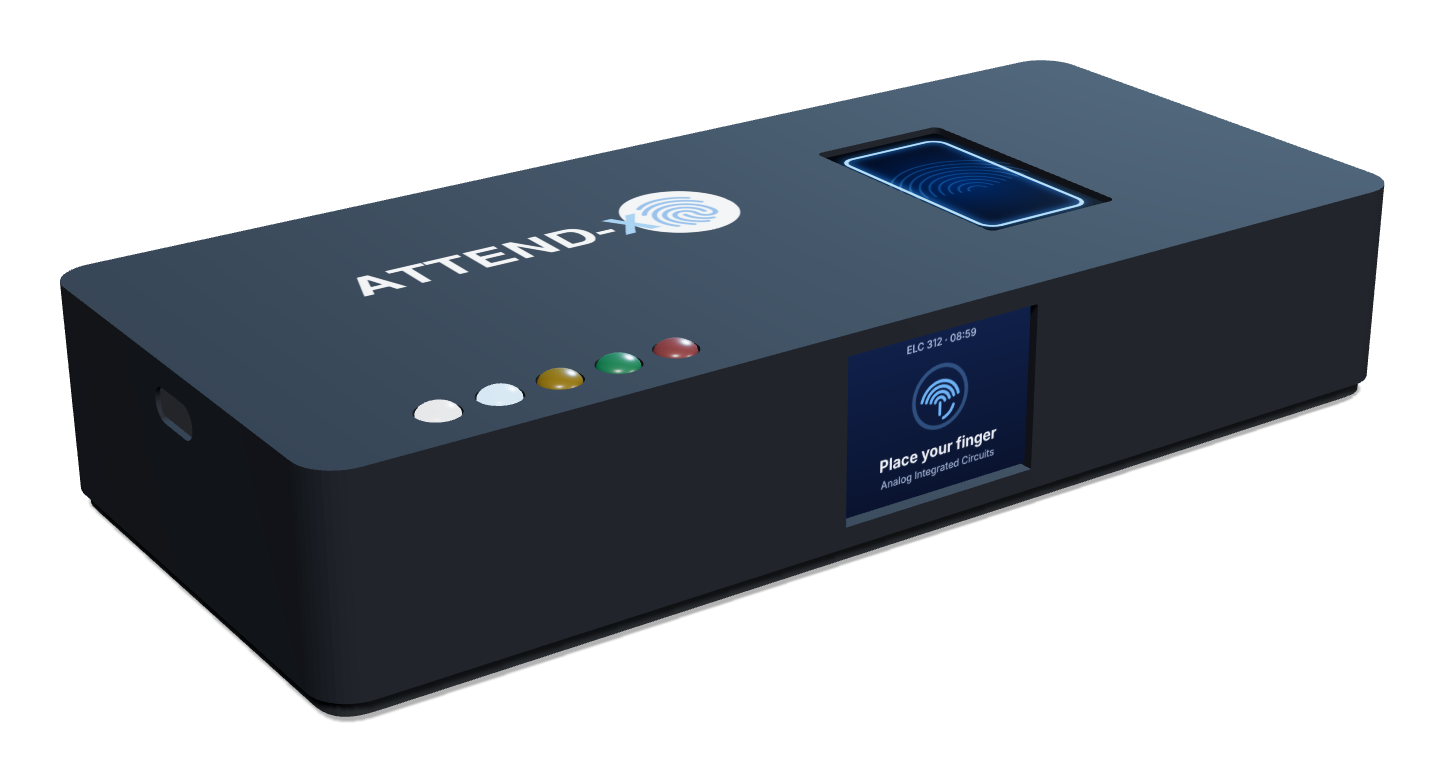
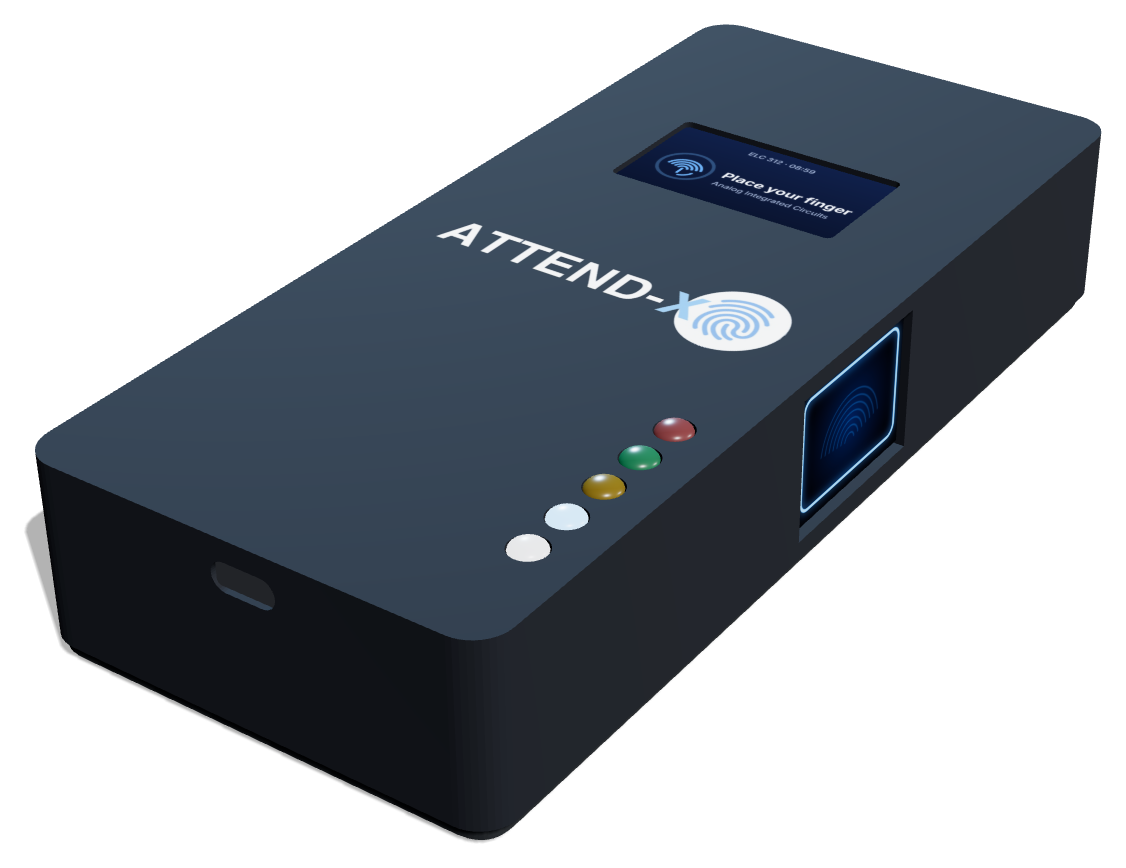
Correct the device layout, refine the page
- Display is in the top window and the fingerprint sensor in the side window; model, stills and copy updated
- Request-a-quote wording, single WhatsApp send button, floating WhatsApp button
- Step visuals, live attendance card, phone layout, anchor offsets under the sticky header

diff --git a/assets/device-3d.js b/assets/device-3d.js
@@ -9,24 +9,28 @@
      opts.ariaKey       T key for the canvas aria-label
      opts.onReady       called after the first frame is on screen
      opts.onView        called with the view name when it changes (to sync the preset buttons)
+     opts.still         { screen } for a single static frame (used by renders/render.html): no animation, no idle motion
 
    Geometry reference (mm, from the team's STL): case 145 x 65.25 x 25 on a 2 mm cover, total height 27.
    Scene axes: X = length, Y = up, Z = toward the front (display side).
-   Top (Y=27): fingerprint window 19 x 34 at X 31.1; LED holes d5 at X -55.5..-27.5, Z 25.6.
-   Front (Z=32.6): display window 26 x 20 at X 3.0, Y 14.65. Back: switch slot 15.5 x 8 at X 33.5, Y 13.8.
-   Left end (X=-72.5): USB-C 9 x 4 at Z 0.5, Y 22. Right end: three 28 x 2 vents. */
+   Top (Y=27): DISPLAY window 19 x 34 at X 31.1; LED holes d5 at X -55.5..-27.5, Z 25.6.
+   Long side (Z=32.6): FINGERPRINT SENSOR window 26 x 20 at X 3.0, Y 14.65. Opposite side: switch slot 15.5 x 8 at X 33.5, Y 13.8.
+   Near end (X=-72.5): USB-C 9 x 4 at Z 0.5, Y 22. Far end: three 28 x 2 vents.
+   The device is used end-on: the user stands at the USB-C end, reads the landscape display (text runs along Z, its top toward +X)
+   and touches the sensor on the right-hand side. That reading direction is taken from the team's Tinkercad layout; flip SCREEN_UP to -1 if it is the other end. */
 (function () {
 "use strict";
 
 const TOP = 27, FRONT = 32.625, BACK = -32.4;
-const SENSOR = { x: 31.1, z: -0.07, w: 19, d: 34 };
+const SCREEN = { x: 31.1, z: -0.07, w: 19, d: 34 };    // display window in the top face
+const SCREEN_UP = 1;                                    // +1: the top of the text points to +X (read from the USB-C end)
 const LEDX = [-55.48, -48.49, -41.5, -34.52, -27.53], LEDZ = 25.6;
-const DISP = { x: 3.04, y: 14.65, w: 26, h: 20 };
+const FP = { x: 3.04, y: 14.65, w: 26, h: 20 };          // fingerprint sensor window in the long side
 const LIFT = 46;                       // how far the case lifts in the Inside view
 const VIEWS = {
-  hero: { pos: [-175, 140, 250], target: [0, 11, 0] },
-  front: { pos: [0, 60, 330], target: [0, 12, 0] },
-  top: { pos: [0, 360, 40], target: [0, 9, 0] },
+  hero: { pos: [-235, 185, 160], target: [0, 11, 0] },
+  front: { pos: [0, 60, 330], target: [0, 12, 0] },     // the sensor side
+  top: { pos: [-40 * SCREEN_UP, 360, 0], target: [0, 9, 0] },
   back: { pos: [185, 130, -250], target: [0, 11, 0] }
 };
 // demo loop (student flow only): ready -> present -> ready -> present -> ready -> not recognized
@@ -55,7 +59,7 @@ function create(stage, opts) {
   opts = opts || {};
   const interactive = !!opts.interactive;
   const tr = opts.t || (k => k);
-  const reduce = matchMedia("(prefers-reduced-motion: reduce)").matches;
+  const reduce = !!opts.still || matchMedia("(prefers-reduced-motion: reduce)").matches;
   if (!meshData) meshData = { case: positions(AX_MESH.case), cover: positions(AX_MESH.cover) };
 
   const LABELS = [], leds = [];
@@ -99,22 +103,24 @@ function create(stage, opts) {
   const liner = new THREE.Mesh(new THREE.BoxGeometry(139, 20, 59), new THREE.MeshBasicMaterial({ color: 0x010102, side: THREE.BackSide }));
   liner.position.set(0, 14, 0); shell.add(liner);
 
-  // fingerprint sensor glass sitting in the top window
-  const glass = canvasTex(256, 448, (x, w, h) => {
+  // fingerprint sensor glass sitting in the side window
+  const glass = canvasTex(416, 320, (x, w, h) => {
     x.fillStyle = "#06090f"; x.fillRect(0, 0, w, h);
     const gl = x.createRadialGradient(w / 2, h / 2, 10, w / 2, h / 2, h * .55); gl.addColorStop(0, "#0d2246"); gl.addColorStop(1, "#050a14");
     x.fillStyle = gl; rr(x, 22, 30, w - 44, h - 60, 26); x.fill();
     x.strokeStyle = "rgba(110,180,249,0.16)"; x.lineWidth = 4; x.lineCap = "round";
-    for (let r = 18; r < 150; r += 16) { x.beginPath(); x.arc(w / 2, h * .6, r, Math.PI * 1.05, Math.PI * 1.95); x.stroke(); }
+    for (let r = 18; r < 120; r += 16) { x.beginPath(); x.arc(w / 2, h * .66, r, Math.PI * 1.05, Math.PI * 1.95); x.stroke(); }
     x.shadowColor = "#6EB4F9"; x.shadowBlur = 26; x.strokeStyle = "rgba(110,180,249,0.95)"; x.lineWidth = 7; rr(x, 22, 30, w - 44, h - 60, 26); x.stroke();
   });
-  const glassMesh = new THREE.Mesh(new THREE.PlaneGeometry(SENSOR.w - 0.6, SENSOR.d - 0.6), new THREE.MeshStandardMaterial({ map: glass.tx, emissive: 0xffffff, emissiveMap: glass.tx, emissiveIntensity: 0.9, roughness: 0.1, metalness: 0.1 }));
-  glassMesh.rotation.x = -Math.PI / 2; glassMesh.position.set(SENSOR.x, TOP - 0.8, SENSOR.z); shell.add(glassMesh);
+  const glassMesh = new THREE.Mesh(new THREE.PlaneGeometry(FP.w - 0.6, FP.h - 0.6), new THREE.MeshStandardMaterial({ map: glass.tx, emissive: 0xffffff, emissiveMap: glass.tx, emissiveIntensity: 0.9, roughness: 0.1, metalness: 0.1 }));
+  glassMesh.position.set(FP.x, FP.y, FRONT - 1.2); shell.add(glassMesh);
+  // things lying on the top face read from the USB-C end: local x -> +Z, local y -> +X, facing up
+  const flatOnTop = new THREE.Quaternion().setFromRotationMatrix(new THREE.Matrix4().makeBasis(new THREE.Vector3(0, 0, SCREEN_UP), new THREE.Vector3(SCREEN_UP, 0, 0), new THREE.Vector3(0, 1, 0)));
 
   // suggested logo on the free area of the top
   const wmTex = new THREE.TextureLoader().load(AX_MESH.wordmark, tx => { tx.encoding = THREE.sRGBEncoding; tx.anisotropy = 8; tx.needsUpdate = true; invalidate(); });
   const wm = new THREE.Mesh(new THREE.PlaneGeometry(50, 50 * 187 / 640), new THREE.MeshBasicMaterial({ map: wmTex, transparent: true, opacity: 0.94, depthWrite: false, toneMapped: false }));
-  wm.rotation.x = -Math.PI / 2; wm.position.set(-22, TOP + 0.03, -9); shell.add(wm);
+  wm.quaternion.copy(flatOnTop); wm.position.set(-3, TOP + 0.03, 0); shell.add(wm);
 
   // LEDs in the five top holes, in the order on the case: white (power), blue (ready), orange (pairing), green (present), red (not recognized)
   [0xe8eefb, 0x3b82f6, 0xf59e0b, 0x22c55e, 0xef4444].forEach((c, i) => {
@@ -122,10 +128,10 @@ function create(stage, opts) {
     const led = new THREE.Mesh(new THREE.SphereGeometry(2.35, 20, 12, 0, Math.PI * 2, 0, Math.PI / 2), m); led.scale.y = .55; led.position.set(LEDX[i], TOP - 0.3, LEDZ); shell.add(led); leds.push(m);
   });
 
-  // screen behind the front window
-  const d = canvasTex(520, 400, () => {}); displayTex = d.tx; displayCtx = d.ctx;
-  const scr = new THREE.Mesh(new THREE.PlaneGeometry(DISP.w - 0.4, DISP.h - 0.4), new THREE.MeshBasicMaterial({ map: displayTex, toneMapped: false }));
-  scr.position.set(DISP.x, DISP.y, FRONT - 1.2); shell.add(scr);
+  // screen in the top window (landscape, 34 x 19 mm)
+  const d = canvasTex(680, 380, () => {}); displayTex = d.tx; displayCtx = d.ctx;
+  const scr = new THREE.Mesh(new THREE.PlaneGeometry(SCREEN.d - 0.4, SCREEN.w - 0.4), new THREE.MeshBasicMaterial({ map: displayTex, toneMapped: false }));
+  scr.quaternion.copy(flatOnTop); scr.position.set(SCREEN.x, TOP - 0.8, SCREEN.z); shell.add(scr);
 
   // USB-C receptacle behind the end hole
   const usb = new THREE.Mesh(new THREE.BoxGeometry(1.5, 3.2, 8.4), new THREE.MeshStandardMaterial({ color: 0x9aa1ab, metalness: .9, roughness: .3 })); usb.position.set(-71.3, 22, 0.47); shell.add(usb);
@@ -141,13 +147,14 @@ function create(stage, opts) {
     const pcbB = new THREE.MeshStandardMaterial({ color: 0x1f4fa8, roughness: 0.5 });
     const chip = new THREE.MeshStandardMaterial({ color: 0x111317, roughness: 0.4 });
     const box = (w, h, dd, m, x, y, z) => { const o = new THREE.Mesh(new THREE.BoxGeometry(w, h, dd), m); o.position.set(x, y, z); o.castShadow = true; inside.add(o); return o; };
-    box(64, 1.6, 54, pcbG, 36, 10.8, -2);                        // main PCB (raised on the cover tabs side)
+    box(56, 1.6, 54, pcbG, 42, 10.8, -2);                        // main PCB (raised on the cover tabs side)
     box(50, 1.6, 26, chip, 40, 12.6, -16);                       // ESP32 devkit
     box(18, 2.6, 22, metal, 58, 14.4, -16);                      // ESP32 module shield
     for (let i = 0; i < 12; i++) { box(1, 4, 1, metal, 18 + i * 4, 11.4, -28.5); box(1, 4, 1, metal, 18 + i * 4, 11.4, -3.5); }
-    box(20, 9, 34, chip, SENSOR.x, 21.5, SENSOR.z);              // fingerprint module under the window
-    box(18, .4, 32, new THREE.MeshStandardMaterial({ color: 0x1b3d73, emissive: 0x2a6fd6, emissiveIntensity: .6 }), SENSOR.x, 26.1, SENSOR.z);
-    box(32, 24, 1.6, new THREE.MeshStandardMaterial({ color: 0x14306b, roughness: .5 }), DISP.x, 14.6, 29.6); // display module
+    box(24, 1.6, 40, pcbB, SCREEN.x, 23.6, SCREEN.z);            // display module under the top window
+    box(19, 1.4, 34, new THREE.MeshStandardMaterial({ color: 0x0b1530, roughness: .15, metalness: .2 }), SCREEN.x, 25.1, SCREEN.z);
+    box(20, 18, 21, chip, FP.x, FP.y, 20.5);                     // fingerprint module behind the side window
+    box(18, 15, .5, new THREE.MeshStandardMaterial({ color: 0x1b3d73, emissive: 0x2a6fd6, emissiveIntensity: .6 }), FP.x, FP.y, 31.2);
     const batt = new THREE.Mesh(new THREE.CylinderGeometry(8.8, 8.8, 58, 40), new THREE.MeshStandardMaterial({ color: 0x1d4f9a, roughness: 0.35, metalness: 0.2 }));
     batt.rotation.z = Math.PI / 2; batt.position.set(-36, 11.2, -21.8); batt.castShadow = true; inside.add(batt);
     [-1, 1].forEach(s => { const cap = new THREE.Mesh(new THREE.CylinderGeometry(8.4, 8.4, 1.4, 40), metal); cap.rotation.z = Math.PI / 2; cap.position.set(-36 + s * 29.4, 11.2, -21.8); inside.add(cap); });
@@ -156,58 +163,66 @@ function create(stage, opts) {
     box(8, 3.2, 9, metal, -68, 21, 0.5);
     box(34, 1.6, 8, chip, -41.5, 23.4, LEDZ);                    // LED board under the holes
     LEDX.forEach(x => box(3, 3, 3, new THREE.MeshStandardMaterial({ color: 0xdfe6f2, roughness: .3 }), x, 25.2, LEDZ));
-    const buzz = new THREE.Mesh(new THREE.CylinderGeometry(6, 6, 7, 32), chip); buzz.position.set(-12, 6, 14); inside.add(buzz);
+    const buzz = new THREE.Mesh(new THREE.CylinderGeometry(6, 6, 7, 32), chip); buzz.position.set(-18, 6, 4); inside.add(buzz);
     const wire = (pts, col) => { const c = new THREE.CatmullRomCurve3(pts.map(p => new THREE.Vector3(...p))); inside.add(new THREE.Mesh(new THREE.TubeGeometry(c, 40, 0.7, 8), new THREE.MeshStandardMaterial({ color: col, roughness: .5 }))); };
     wire([[-6, 11, -21], [2, 14, -18], [16, 13, -14]], 0xd93a3a);
     wire([[-6, 9, -23], [4, 11, -20], [16, 12, -16]], 0x16181d);
     wire([[-48, 22, 4], [-26, 18, 6], [8, 13, 6]], 0xf2c230);
     wire([[-26, 22.5, 22], [-6, 18, 14], [10, 13, 6]], 0x6eb4f9);
-    wire([[22, 13, 6], [12, 15, 18], [6, 15, 28]], 0xa78bfa);
-    wire([[40, 13, 2], [36, 15, 1], [32, 17, 0]], 0x22c55e);
+    wire([[22, 13, 4], [18, 14, 8], [14, 14, 14]], 0xa78bfa);
+    wire([[44, 13, 4], [40, 18, 2], [36, 22.5, 0]], 0x22c55e);
 
-    addLabel("l_sensor", [SENSOR.x, TOP, SENSOR.z], [0, 1, 0], "product", shell);
+    addLabel("l_display", [SCREEN.x, TOP, SCREEN.z], [0, 1, 0], "product", shell);
     addLabel("l_leds", [-41.5, TOP, LEDZ], [0, 1, 0], "product", shell);
-    addLabel("l_display", [DISP.x, DISP.y + 6, FRONT], [0, 0, 1], "product", shell);
+    addLabel("l_sensor", [FP.x, FP.y + 6, FRONT], [0, 0, 1], "product", shell);
     addLabel("l_usb", [-72.5, 22, 0.5], [-1, 0, 0], "product", shell);
     addLabel("l_switch", [30.5, 13.8, -32.6], [0, 0, -1], "product", shell);
     addLabel("l_vents", [72.5, 14.5, -1.5], [1, 0, 0], "product", shell);
     addLabel("l_esp", [64, 16, -26], null, "inside", inside);
-    addLabel("l_fpm", [SENSOR.x - 2, 26, 14], null, "inside", inside);
-    addLabel("l_dispm", [DISP.x - 10, 26, 29.6], null, "inside", inside);
+    addLabel("l_fpm", [FP.x - 6, 24, 22], null, "inside", inside);
+    addLabel("l_dispm", [SCREEN.x, 26, 16], null, "inside", inside);
     addLabel("l_batt", [-50, 20, -21.8], null, "inside", inside);
     addLabel("l_chg", [-60, 24, 9], null, "inside", inside);
     addLabel("l_ledbar", [-30, 26, LEDZ], null, "inside", inside);
-    addLabel("l_buzz", [-12, 10, 14], null, "inside", inside);
+    addLabel("l_buzz", [-18, 10, 4], null, "inside", inside);
   }
 
-  /* Device screen (26 x 20 mm window, 520 x 400 canvas). Student flow; the pairing code is for the teacher at session start and is not shown here. */
+  /* Device screen (34 x 19 mm landscape window, 680 x 380 canvas). The demo loop is the student flow;
+     the pairing code ("code") is for the teacher at session start and is only drawn for the How-it-works render. */
   function drawScreen(state) {
     screenState = state;
-    const x = displayCtx, w = 520, h = 400, cx = w / 2;
+    const x = displayCtx, w = 680, h = 380, cx = w / 2, ix = 132, iy = 214, tx = 246;
     const g = x.createLinearGradient(0, 0, 0, h); g.addColorStop(0, "#10204A"); g.addColorStop(1, "#0A1430");
     x.fillStyle = g; x.fillRect(0, 0, w, h);
-    x.textAlign = "center"; x.textBaseline = "alphabetic";
-    x.fillStyle = "#A9BADB"; x.font = "600 26px Inter, Arial, sans-serif"; x.fillText("ELC 312 · 08:59", cx, 46);
-    if (state === "ok") {
-      x.fillStyle = "#4ADE80"; x.beginPath(); x.arc(cx, 170, 74, 0, Math.PI * 2); x.fill();
-      x.strokeStyle = "#0A1430"; x.lineWidth = 16; x.lineCap = "round"; x.lineJoin = "round";
-      x.beginPath(); x.moveTo(cx - 32, 172); x.lineTo(cx - 8, 196); x.lineTo(cx + 36, 146); x.stroke();
-      x.fillStyle = "#4ADE80"; x.font = "800 46px Inter, Arial, sans-serif"; x.fillText("Present", cx, 314);
-      x.fillStyle = "#F4F7FC"; x.font = "600 30px Inter, Arial, sans-serif"; x.fillText("Mariam Hassan", cx, 358);
-    } else if (state === "fail") {
-      x.fillStyle = "#F87171"; x.beginPath(); x.arc(cx, 170, 74, 0, Math.PI * 2); x.fill();
-      x.strokeStyle = "#0A1430"; x.lineWidth = 16; x.lineCap = "round";
-      x.beginPath(); x.moveTo(cx - 28, 142); x.lineTo(cx + 28, 198); x.moveTo(cx + 28, 142); x.lineTo(cx - 28, 198); x.stroke();
-      x.fillStyle = "#F87171"; x.font = "800 42px Inter, Arial, sans-serif"; x.fillText("Not recognized", cx, 314);
-      x.fillStyle = "#F4F7FC"; x.font = "500 28px Inter, Arial, sans-serif"; x.fillText("Please try again", cx, 356);
+    x.textBaseline = "alphabetic"; x.textAlign = "center";
+    x.fillStyle = "#A9BADB"; x.font = "600 28px Inter, Arial, sans-serif"; x.fillText("ELC 312 · 08:59", cx, 58);
+    if (state === "code") {
+      x.fillStyle = "#A9BADB"; x.font = "700 28px Inter, Arial, sans-serif"; x.fillText("PAIRING CODE", cx, 124);
+      x.fillStyle = "#F5A524"; x.font = "700 132px 'JetBrains Mono', Consolas, monospace"; x.fillText("452259", cx, 250);
+      x.fillStyle = "#A9BADB"; x.font = "500 26px Inter, Arial, sans-serif"; x.fillText("Enter it in the teacher portal", cx, 322);
     } else {
-      x.lineWidth = 10; x.strokeStyle = "rgba(110,180,249,0.35)"; x.beginPath(); x.arc(cx, 170, 74, 0, Math.PI * 2); x.stroke();
-      x.strokeStyle = "#6EB4F9"; x.lineWidth = 8; x.lineCap = "round";
-      for (let r = 14; r <= 54; r += 13) { x.beginPath(); x.arc(cx, 186, r, Math.PI * 1.08, Math.PI * 1.92); x.stroke(); }
-      x.beginPath(); x.moveTo(cx, 186); x.lineTo(cx, 214); x.stroke();
-      x.beginPath(); x.arc(cx, 186, 40, Math.PI * 0.1, Math.PI * 0.42); x.stroke();
-      x.fillStyle = "#F4F7FC"; x.font = "700 40px Inter, Arial, sans-serif"; x.fillText("Place your finger", cx, 314);
-      x.fillStyle = "#A9BADB"; x.font = "500 26px Inter, Arial, sans-serif"; x.fillText("Analog Integrated Circuits", cx, 356);
+      x.textAlign = "left";
+      if (state === "ok") {
+        x.fillStyle = "#4ADE80"; x.beginPath(); x.arc(ix, iy, 78, 0, Math.PI * 2); x.fill();
+        x.strokeStyle = "#0A1430"; x.lineWidth = 17; x.lineCap = "round"; x.lineJoin = "round";
+        x.beginPath(); x.moveTo(ix - 34, iy + 2); x.lineTo(ix - 9, iy + 27); x.lineTo(ix + 38, iy - 26); x.stroke();
+        x.fillStyle = "#4ADE80"; x.font = "800 62px Inter, Arial, sans-serif"; x.fillText("Present", tx, iy + 2);
+        x.fillStyle = "#F4F7FC"; x.font = "600 36px Inter, Arial, sans-serif"; x.fillText("Mariam Hassan", tx, iy + 56);
+      } else if (state === "fail") {
+        x.fillStyle = "#F87171"; x.beginPath(); x.arc(ix, iy, 78, 0, Math.PI * 2); x.fill();
+        x.strokeStyle = "#0A1430"; x.lineWidth = 17; x.lineCap = "round";
+        x.beginPath(); x.moveTo(ix - 30, iy - 30); x.lineTo(ix + 30, iy + 30); x.moveTo(ix + 30, iy - 30); x.lineTo(ix - 30, iy + 30); x.stroke();
+        x.fillStyle = "#F87171"; x.font = "800 50px Inter, Arial, sans-serif"; x.fillText("Not recognized", tx, iy + 2);
+        x.fillStyle = "#F4F7FC"; x.font = "500 32px Inter, Arial, sans-serif"; x.fillText("Please try again", tx, iy + 54);
+      } else {
+        x.lineWidth = 10; x.strokeStyle = "rgba(110,180,249,0.35)"; x.beginPath(); x.arc(ix, iy, 78, 0, Math.PI * 2); x.stroke();
+        x.strokeStyle = "#6EB4F9"; x.lineWidth = 8; x.lineCap = "round";
+        for (let r = 14; r <= 54; r += 13) { x.beginPath(); x.arc(ix, iy + 16, r, Math.PI * 1.08, Math.PI * 1.92); x.stroke(); }
+        x.beginPath(); x.moveTo(ix, iy + 16); x.lineTo(ix, iy + 44); x.stroke();
+        x.beginPath(); x.arc(ix, iy + 16, 40, Math.PI * 0.1, Math.PI * 0.42); x.stroke();
+        x.fillStyle = "#F4F7FC"; x.font = "700 48px Inter, Arial, sans-serif"; x.fillText("Place your finger", tx, iy + 2);
+        x.fillStyle = "#A9BADB"; x.font = "500 29px Inter, Arial, sans-serif"; x.fillText("Analog Integrated Circuits", tx, iy + 52);
+      }
     }
     displayTex.needsUpdate = true;
     setLeds(state);
@@ -216,6 +231,7 @@ function create(stage, opts) {
     leds.forEach(l => l.emissiveIntensity = 0.04);
     leds[0].emissiveIntensity = 1.1;
     if (state === "ready") leds[1].emissiveIntensity = 2.2 + (pulse || 0);
+    if (state === "code") leds[2].emissiveIntensity = 2.4 + (pulse || 0);
     if (state === "ok") leds[3].emissiveIntensity = 3;
     if (state === "fail") leds[4].emissiveIntensity = 3;
   }
@@ -246,13 +262,13 @@ function create(stage, opts) {
   const target = new THREE.Vector3(), sph = new THREE.Spherical();
   let goal = null, baseY = 11, vTheta = 0, vPhi = 0, dragging = false;
   const PHI_MIN = 0.1, PHI_MAX = Math.PI * 0.49;
-  function viewSph(name) { const v = VIEWS[name]; return { s: new THREE.Spherical().setFromVector3(new THREE.Vector3(...v.pos).sub(new THREE.Vector3(...v.target))), y: v.target[1] }; }
+  function viewSph(name) { const v = typeof name === "string" ? VIEWS[name] : name; return { s: new THREE.Spherical().setFromVector3(new THREE.Vector3(...v.pos).sub(new THREE.Vector3(...v.target))), y: v.target[1], x: v.target[0], z: v.target[2] }; }
   function setView(name, instant) {
-    if (!VIEWS[name]) return;
-    const g = viewSph(name); baseY = g.y; vTheta = vPhi = 0;
-    if (instant || reduce) { sph.copy(g.s); target.set(0, baseY + (mode === "inside" ? 16 : 0), 0); goal = null; }
+    if (typeof name === "string" && !VIEWS[name]) return;
+    const g = viewSph(name); baseY = g.y; vTheta = vPhi = 0; target.x = g.x; target.z = g.z;
+    if (instant || reduce) { sph.copy(g.s); target.y = baseY + (mode === "inside" ? 16 : 0); goal = null; }
     else { g.s.theta = sph.theta + Math.atan2(Math.sin(g.s.theta - sph.theta), Math.cos(g.s.theta - sph.theta)); goal = g.s; }
-    if (opts.onView) opts.onView(name);
+    if (opts.onView) opts.onView(typeof name === "string" ? name : null);
     invalidate();
   }
   function placeCamera(sway) {
@@ -285,7 +301,7 @@ function create(stage, opts) {
     renderer.setSize(w, h, false); camera.aspect = w / h;
     // keep ~120 mm (viewer, room for labels) or ~105 mm (hero) either side of the centre in frame at the 3/4 distance
     const fit = 2 * Math.atan(((interactive ? 120 : 105) / 335) / camera.aspect) * 180 / Math.PI;
-    camera.fov = Math.min(46, Math.max(interactive ? 23 : 24, fit));
+    camera.fov = opts.fov || Math.min(46, Math.max(interactive ? 23 : 24, fit));
     // --shift3d on the stage (a fraction of its height) moves the device up, to leave room for a card overlapping the bottom
     const shift = parseFloat(getComputedStyle(stage).getPropertyValue("--shift3d")) || 0;
     if (shift) camera.setViewOffset(w, h, 0, Math.round(shift * h), w, h); else camera.clearViewOffset();
@@ -331,7 +347,7 @@ function create(stage, opts) {
   document.addEventListener("visibilitychange", onVis);
   canvas.addEventListener("webglcontextlost", e => { e.preventDefault(); if (opts.onLost) opts.onLost(); });
 
-  drawScreen("ready");
+  drawScreen((opts.still && opts.still.screen) || "ready");
   setView("hero", true); resize(); refreshText();
   // the screen text is drawn on a canvas, so redraw it once the web fonts are in
   if (document.fonts && document.fonts.ready) document.fonts.ready.then(() => { if (!dead) { drawScreen(screenState); invalidate(); } });

diff --git a/index.html b/index.html
@@ -143,7 +143,7 @@ html[lang="ar"] .hero h1 { line-height: 1.25; }
 .step h3 { font-size: 18px; font-weight: 700; }
 .step p { color: var(--muted); font-size: 15px; }
 .step__shot { display: block; aspect-ratio: 4 / 3; border-radius: var(--r-md); overflow: hidden; border: 1px solid var(--line); background: radial-gradient(120% 90% at 50% 35%, #1D3566 0%, var(--navy-deep) 100%); }
-.step__shot img { width: 100%; height: 100%; object-fit: cover; object-position: 49% 50%; }
+.step__shot img { width: 100%; height: 100%; object-fit: cover; }
 .step__shot--fit img { object-fit: contain; padding: 8px; }
 .step__chart { display: grid; place-content: center; justify-items: center; gap: 12px; }
 .donut { position: relative; width: 56%; min-width: 96px; display: grid; place-items: center; }
@@ -370,7 +370,7 @@ html[lang="ar"] .plan__price b { font-family: var(--f-ar); }
         </div>
       </div>
       <div class="hero__visual">
-        <div class="stage3d hero__stage" id="heroStage"><img class="stage3d__poster" src="assets/device-hero.png" alt="" data-t-alt="hero_alt" width="1445" height="783" fetchpriority="high"></div>
+        <div class="stage3d hero__stage" id="heroStage"><img class="stage3d__poster" src="assets/device-hero.png" alt="" data-t-alt="hero_alt" width="1126" height="868" fetchpriority="high"></div>
         <div class="feed" aria-live="polite">
           <div class="feed__head">
             <div class="feed__course"><i class="feed__dot" aria-hidden="true"></i><span data-t="feed_live"></span> · <b>ELC 312</b></div>
@@ -401,8 +401,8 @@ html[lang="ar"] .plan__price b { font-family: var(--f-ar); }
       <div class="sec-head"><span class="eyebrow" data-t="how_eye"></span><h2 class="display" id="howT" data-t="how_t"></h2><p data-t="how_p"></p></div>
       <ol class="steps">
         <li class="step"><span class="step__n">1</span><h3 data-t="s1_t"></h3><p data-t="s1_p"></p><span class="step__shot"><img src="assets/step-register.png" alt="" data-t-alt="s1_alt" width="800" height="600" loading="lazy"></span></li>
-        <li class="step"><span class="step__n">2</span><h3 data-t="s2_t"></h3><p data-t="s2_p"></p><span class="step__shot"><img src="assets/device-pairing-code.png" alt="" data-t-alt="s2_alt" width="1701" height="465" loading="lazy"></span></li>
-        <li class="step"><span class="step__n">3</span><h3 data-t="s3_t"></h3><p data-t="s3_p"></p><span class="step__shot step__shot--fit"><img src="assets/device-present.png" alt="" data-t-alt="s3_alt" width="1445" height="783" loading="lazy"></span></li>
+        <li class="step"><span class="step__n">2</span><h3 data-t="s2_t"></h3><p data-t="s2_p"></p><span class="step__shot"><img src="assets/device-pairing-code.png" alt="" data-t-alt="s2_alt" width="1200" height="900" loading="lazy"></span></li>
+        <li class="step"><span class="step__n">3</span><h3 data-t="s3_t"></h3><p data-t="s3_p"></p><span class="step__shot step__shot--fit"><img src="assets/device-present.png" alt="" data-t-alt="s3_alt" width="1126" height="868" loading="lazy"></span></li>
         <li class="step"><span class="step__n">4</span><h3 data-t="s4_t"></h3><p data-t="s4_p"></p><span class="step__shot step__chart" role="img" data-t-aria="s4_alt">
           <span class="donut"><svg viewBox="0 0 120 120" aria-hidden="true"><circle cx="60" cy="60" r="42" fill="none" stroke="#F87171" stroke-width="13"/><circle cx="60" cy="60" r="42" fill="none" stroke="#4ADE80" stroke-width="13" stroke-dasharray="232.2 263.9" transform="rotate(-90 60 60)"/></svg><b id="donutPct"></b></span>
           <span class="donut__legend"><span><i style="background:#4ADE80"></i><span data-t="present"></span></span><span><i style="background:#F87171"></i><span data-t="absent"></span></span></span>
@@ -433,7 +433,7 @@ html[lang="ar"] .plan__price b { font-family: var(--f-ar); }
       <div class="sec-head" style="margin-bottom:28px"><span class="eyebrow" data-t="dev_eye"></span><h2 class="display" id="devT" data-t="dev_t"></h2><p data-t="dev_p"></p></div>
       <div class="viewer">
         <div class="stage3d viewer__stage" id="devStage">
-          <img class="stage3d__poster" src="assets/device-hero.png" data-fallback="assets/device-inside.png" alt="" data-t-alt="dev_alt" width="1445" height="783" loading="lazy">
+          <img class="stage3d__poster" src="assets/device-hero.png" data-fallback="assets/device-inside.png" alt="" data-t-alt="dev_alt" width="1126" height="868" loading="lazy">
           <div class="v3-labels" id="devLabels"></div>
           <span class="viewer__hint" data-t="v3_hint"></span>
         </div>
@@ -594,7 +594,7 @@ const T = {
   fact1: { en: "Check-in in about a second", ar: "تسجيل في حوالي ثانية" },
   fact2: { en: "Live reports from anywhere", ar: "تقارير لحظية من أي مكان" },
   fact3: { en: "Encrypted with HTTPS", ar: "بيانات مشفّرة بـ HTTPS" },
-  hero_alt: { en: "The Attend-X device: a black unit with the fingerprint sensor and status lights on top and a display on the front asking for a finger", ar: "جهاز أتند إكس: وحدة سوداء فوقها حساس البصمة ولمبات الحالة، وشاشة من قدام بتطلب البصمة" },
+  hero_alt: { en: "The Attend-X device: a black unit with the display and status lights on top and the fingerprint sensor on its side", ar: "جهاز أتند إكس: وحدة سوداء فوقها الشاشة ولمبات الحالة، وحساس البصمة في جنبها" },
   feed_live: { en: "Live attendance", ar: "الحضور الآن" },
   feed_cap: { en: "What the teacher or supervisor sees: each name appears the moment its owner touches the device.", ar: "ده اللي بيشوفه المدرس أو المشرف: كل اسم بيظهر في نفس لحظة بصمة صاحبه." },
   present: { en: "Present", ar: "حاضر" },
@@ -622,7 +622,7 @@ const T = {
   s1_alt: { en: "The admin platform's fingerprint registration screen", ar: "شاشة تسجيل البصمات في منصة الإدارة" },
   s3_alt: { en: "The Attend-X device with a green light and Present on its display", ar: "جهاز أتند إكس واللمبة الخضرا منورة والشاشة مكتوب عليها حاضر" },
   s4_alt: { en: "Example attendance chart: 88% present, 12% absent", ar: "مثال لرسم الحضور: ٨٨٪ حاضر و١٢٪ غائب" },
-  s2_alt: { en: "Front of the Attend-X device with the pairing code 452259 on its display", ar: "واجهة جهاز أتند إكس وعلى شاشته كود الربط 452259" },
+  s2_alt: { en: "The display on top of the Attend-X device showing the pairing code 452259", ar: "شاشة جهاز أتند إكس من فوق وعليها كود الربط 452259" },
   s3_t: { en: "One touch to check in", ar: "لمسة واحدة للتسجيل" },
   s3_p: { en: "Everyone places a finger on the sensor. A green light confirms the record.", ar: "كل شخص يحط صباعه على الحساس، واللمبة الخضرا تأكد التسجيل." },
   s4_t: { en: "Follow it live", ar: "تابع لحظة بلحظة" },
@@ -656,7 +656,7 @@ const T = {
   m_product: { en: "Product", ar: "المنتج" },
   m_inside: { en: "Inside", ar: "من الداخل" },
   v_hero: { en: "3/4", ar: "زاوية" },
-  v_front: { en: "Front", ar: "أمام" },
+  v_front: { en: "Side", ar: "جنب" },
   v_top: { en: "Top", ar: "أعلى" },
   v_back: { en: "Back", ar: "خلف" },
   t_labels: { en: "Labels", ar: "الأسماء" },
@@ -779,12 +779,12 @@ const FEATURES = [
 ];
 
 const PARTS = [
-  { icon: I.finger, t: { en: "Fingerprint sensor on top", ar: "حساس بصمة من فوق" }, p: { en: "Optical sensor. Reads a finger in about a second.", ar: "حساس ضوئي يقرأ البصمة في حوالي ثانية." } },
-  { icon: I.screen, t: { en: "Color display on the front", ar: "شاشة ملونة من قدام" }, p: { en: "Asks for a finger, then confirms with the person's name.", ar: "تطلب البصمة، وبعدها تأكد التسجيل باسم صاحبها." } },
+  { icon: I.screen, t: { en: "Color display on top", ar: "شاشة ملونة من فوق" }, p: { en: "Asks for a finger, then confirms with the person's name.", ar: "تطلب البصمة، وبعدها تأكد التسجيل باسم صاحبها." } },
+  { icon: I.finger, t: { en: "Fingerprint sensor on the side", ar: "حساس بصمة في الجنب" }, p: { en: "Optical sensor. Reads a finger in about a second.", ar: "حساس ضوئي يقرأ البصمة في حوالي ثانية." } },
   { icon: I.lights, t: { en: "Five status lights", ar: "خمس لمبات حالة" }, p: { en: "On top, so the result is clear from a distance.", ar: "من فوق، عشان النتيجة تبان من بعيد." } },
-  { icon: I.usb, t: { en: "USB-C charging", ar: "شحن USB-C" }, p: { en: "The charging port is on one end of the device.", ar: "فتحة الشحن في جنب الجهاز." } },
-  { icon: I.power, t: { en: "Slide power switch", ar: "زر تشغيل منزلق" }, p: { en: "On the back, out of the way.", ar: "في ضهر الجهاز، بعيد عن الإيد." } },
-  { icon: I.vents, t: { en: "Vents", ar: "فتحات تهوية" }, p: { en: "On the other end, to keep the electronics cool.", ar: "في الجنب التاني، عشان الإلكترونيات تفضل باردة." } },
+  { icon: I.usb, t: { en: "USB-C charging", ar: "شحن USB-C" }, p: { en: "The charging port is on the near end of the device.", ar: "فتحة الشحن في طرف الجهاز." } },
+  { icon: I.power, t: { en: "Slide power switch", ar: "زر تشغيل منزلق" }, p: { en: "On the side opposite the sensor, out of the way.", ar: "في الجنب المقابل للحساس، بعيد عن الإيد." } },
+  { icon: I.vents, t: { en: "Vents", ar: "فتحات تهوية" }, p: { en: "On the far end, to keep the electronics cool.", ar: "في الطرف التاني، عشان الإلكترونيات تفضل باردة." } },
   { icon: I.battery, t: { en: "18650 rechargeable battery", ar: "بطارية 18650 قابلة للشحن" }, p: { en: "Inside the case. Works anywhere in the room, no cable needed.", ar: "جوه العلبة. الجهاز يشتغل في أي مكان من غير سلك." } },
   { icon: I.chip, t: { en: "ESP32 with Wi-Fi", ar: "معالج ESP32 بالواي فاي" }, p: { en: "Connects the device to the online platform.", ar: "يربط الجهاز بالمنصة أونلاين." } }
 ];
